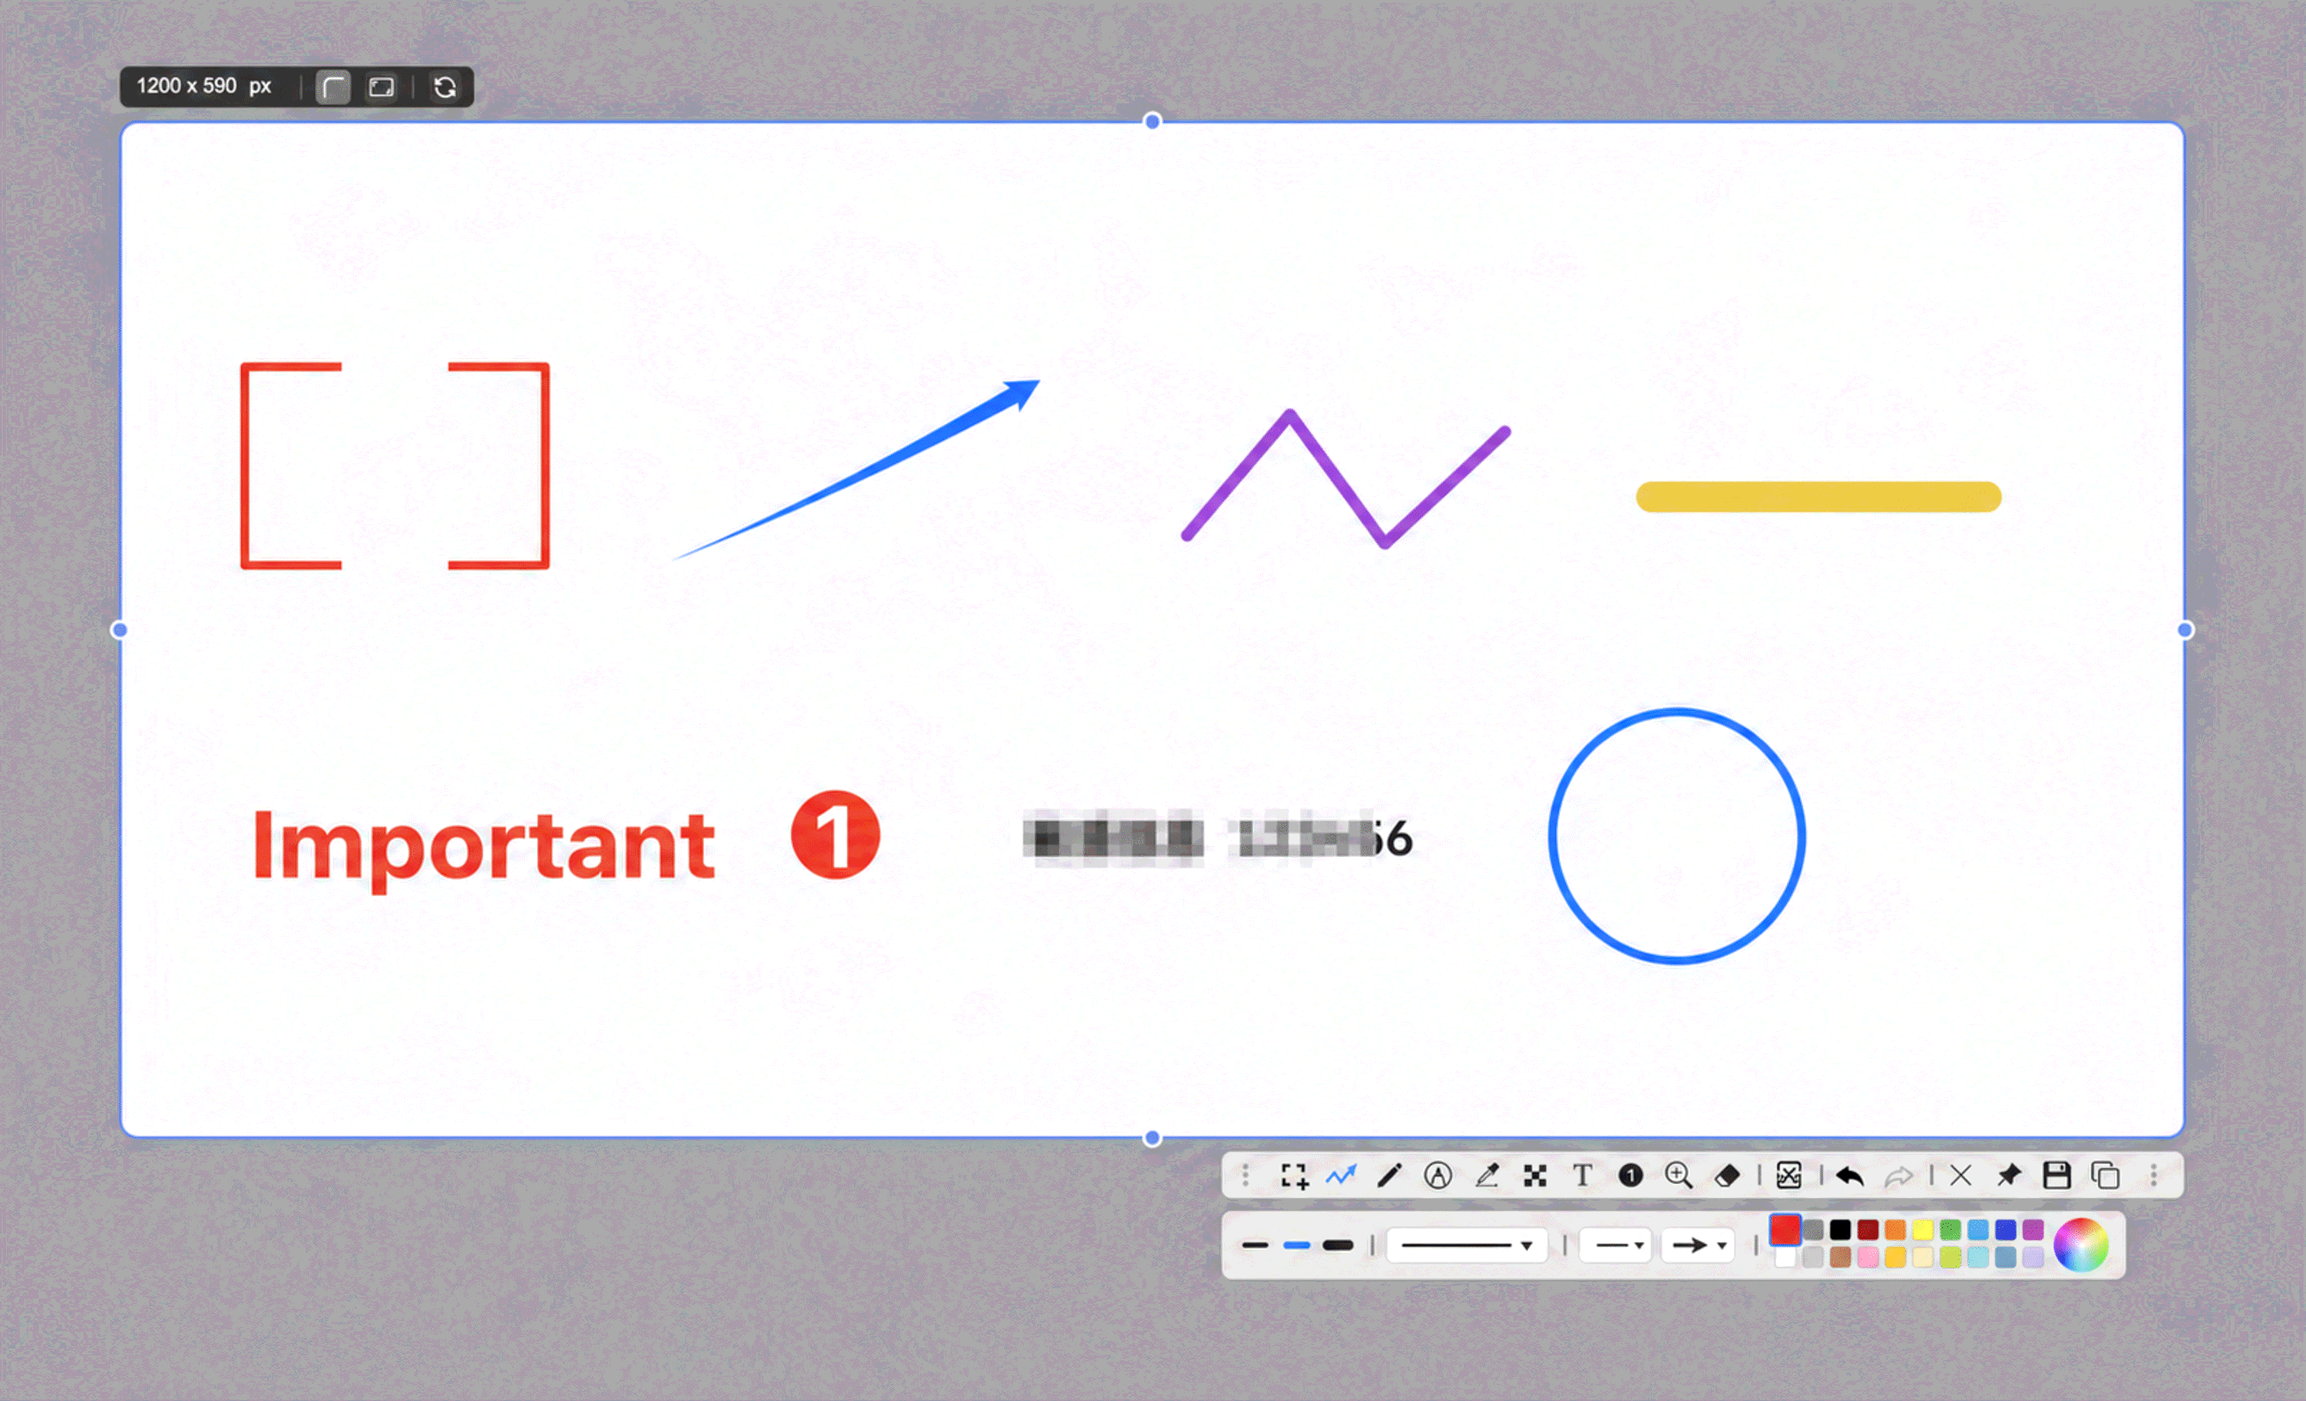
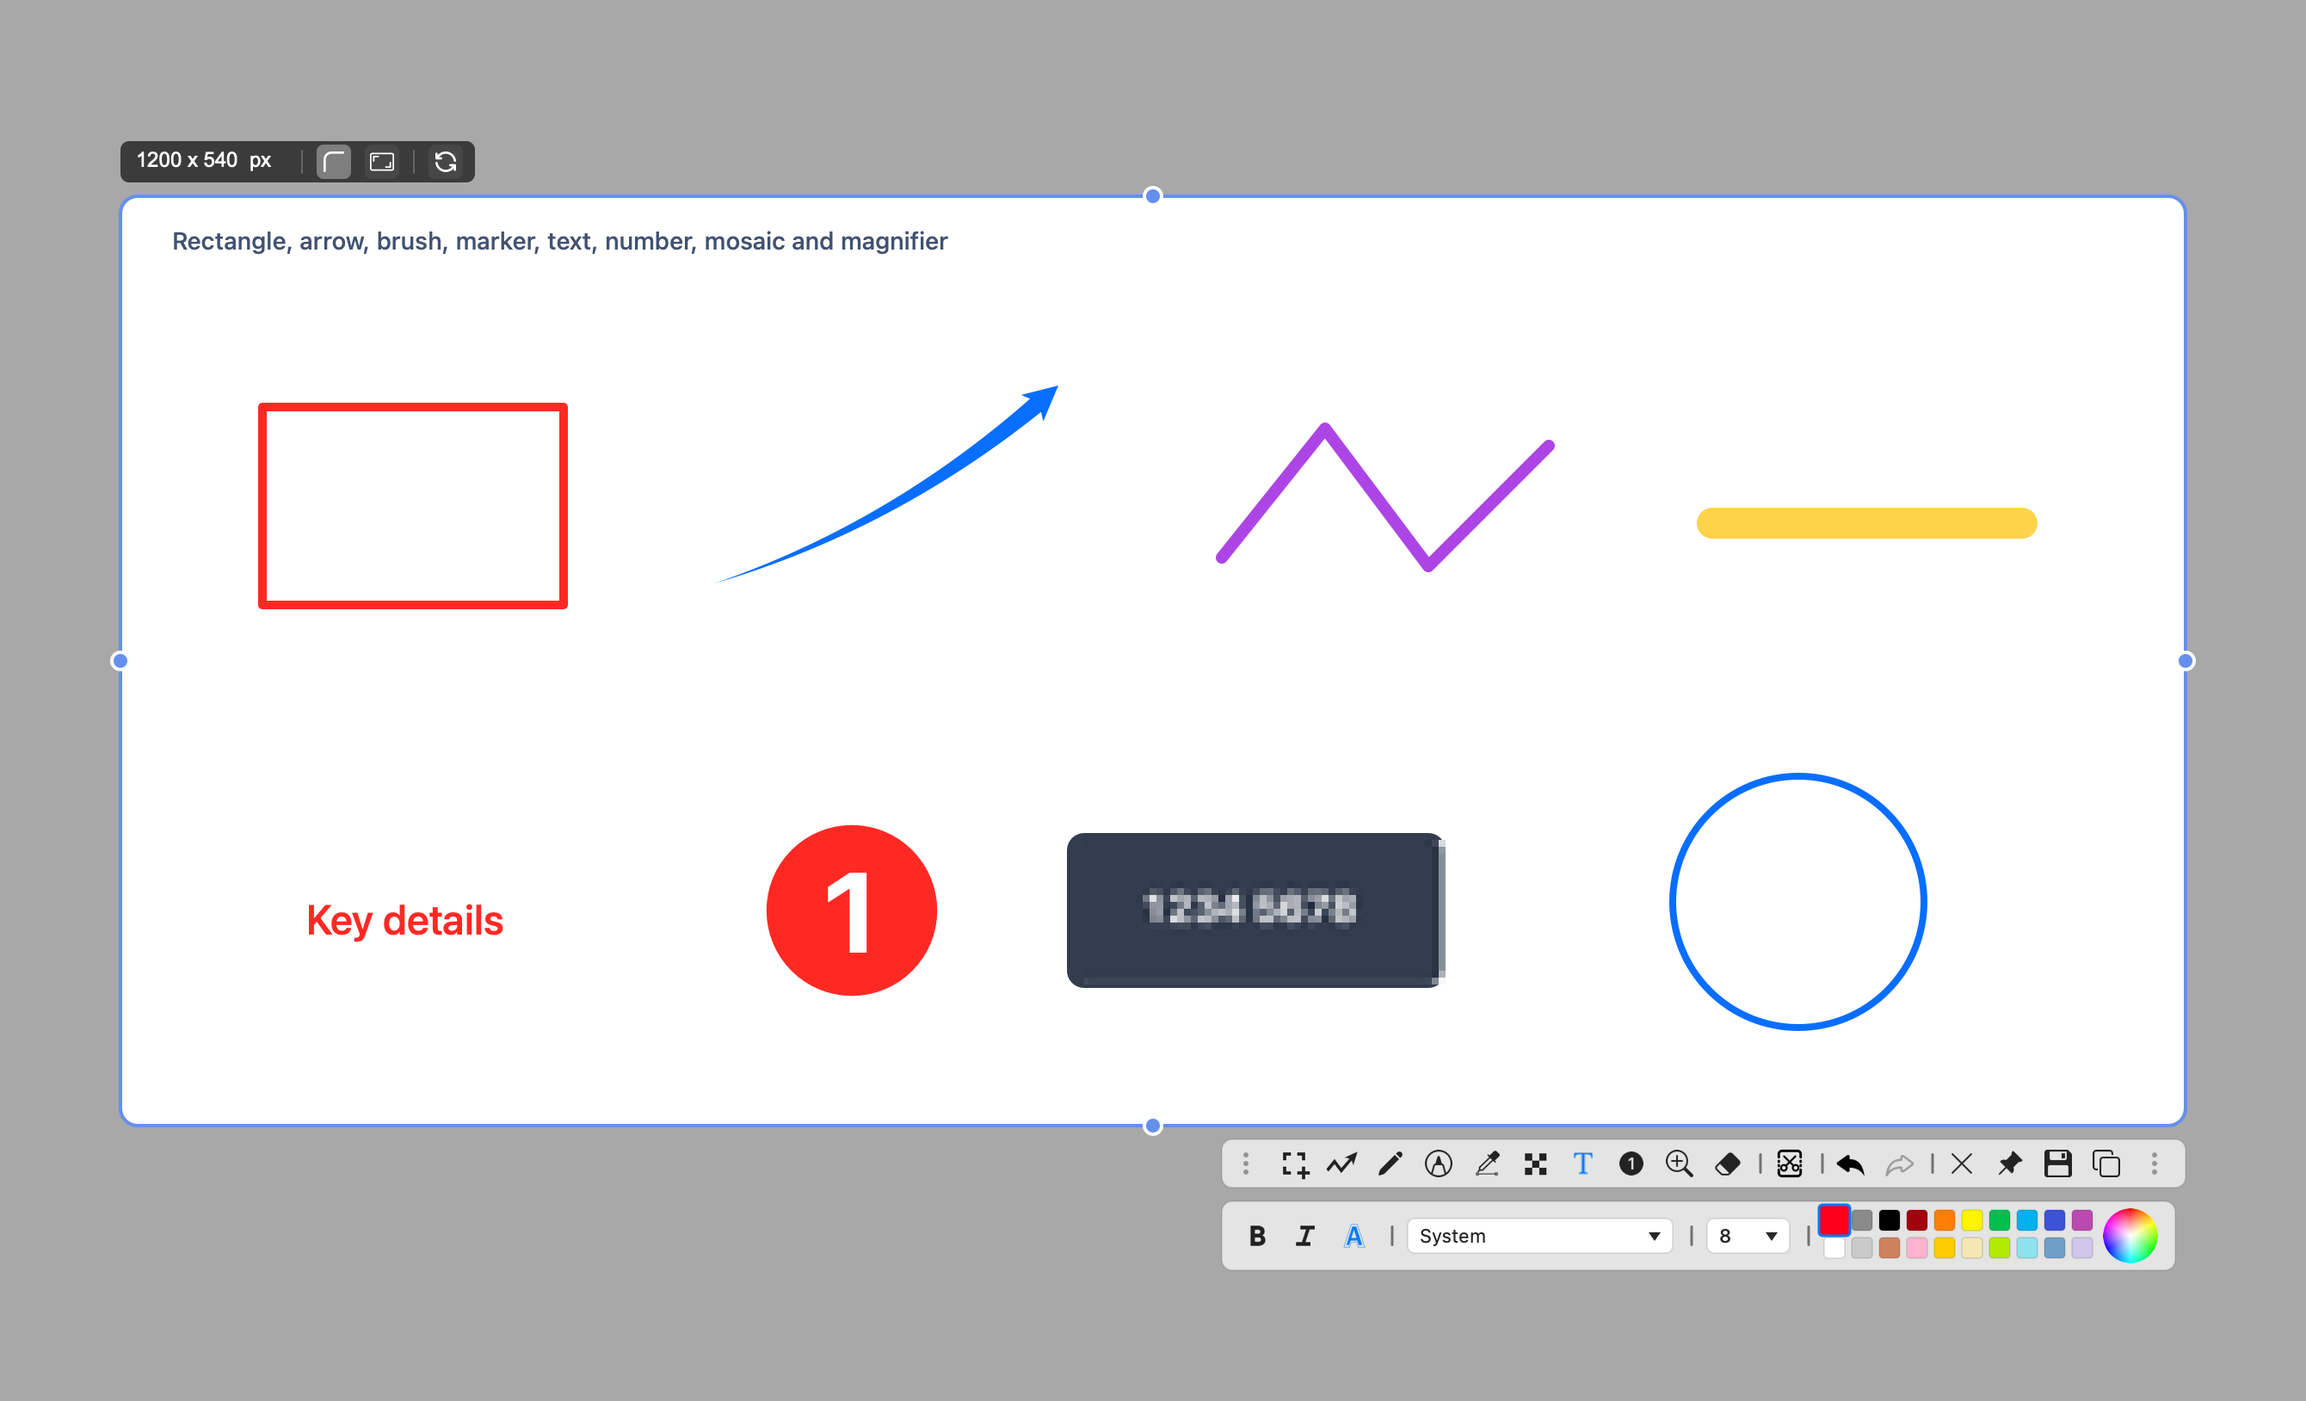
fix(mac): refresh complete help captures
Regenerate bilingual annotation and scrolling-capture images with the production overlay renderer so labels are not clipped and the scroll height remains visible.

diff --git a/platforms/mac/Tests/xxsnapMacTests.swift b/platforms/mac/Tests/xxsnapMacTests.swift
@@ -265,6 +265,91 @@ final class xxsnapMacTests: XCTestCase {
         )
     }
 
+    @MainActor
+    func testRefreshHelpCaptureResourcesWhenRequested() throws {
+        guard let outputRoot = ProcessInfo.processInfo.environment["XXSNAP_HELP_CAPTURE_OUTPUT"] else {
+            throw XCTSkip("Set XXSNAP_HELP_CAPTURE_OUTPUT to refresh the help captures")
+        }
+
+        let canvasSize = NSSize(width: 1_340, height: 814)
+        let languages: [AppLanguage] = [.zhHans, .english]
+
+        for language in languages {
+            var settings = AppSettings.default
+            settings.language = language
+            let directoryName = language == .zhHans ? "zh-Hans" : "en"
+            let outputDirectory = URL(fileURLWithPath: outputRoot)
+                .appendingPathComponent(directoryName, isDirectory: true)
+            try FileManager.default.createDirectory(
+                at: outputDirectory,
+                withIntermediateDirectories: true
+            )
+
+            let annotationBackdrop = try makeHelpCaptureBackdrop(
+                size: canvasSize,
+                language: language,
+                scrollContent: false
+            )
+            var annotationConfiguration = SelectionOverlayConfiguration.default
+            annotationConfiguration.windowFrame = NSRect(origin: .zero, size: canvasSize)
+            annotationConfiguration.usesWindowBoundsForLayout = true
+            let annotationWindow = SelectionOverlayWindow(
+                backgroundImage: annotationBackdrop,
+                settings: settings,
+                configuration: annotationConfiguration
+            ) { _ in }
+            let annotationSelection = NSRect(x: 70, y: 160, width: 1_200, height: 540)
+            annotationWindow.test_setLockedSelectionRect(annotationSelection)
+            annotationWindow.test_setAnnotations(
+                helpCaptureAnnotations(language: language)
+            )
+            annotationWindow.test_activateTextTool()
+            annotationWindow.test_selectTextSize(8)
+
+            let annotationImage = try renderHelpCapture(
+                window: annotationWindow,
+                backdrop: annotationBackdrop
+            )
+            try save(
+                image: annotationImage,
+                to: outputDirectory
+                    .appendingPathComponent("capture-annotation-tools.png")
+                    .path
+            )
+
+            let scrollBackdrop = try makeHelpCaptureBackdrop(
+                size: canvasSize,
+                language: language,
+                scrollContent: true
+            )
+            var scrollConfiguration = SelectionOverlayConfiguration.default
+            scrollConfiguration.windowFrame = NSRect(origin: .zero, size: canvasSize)
+            scrollConfiguration.usesWindowBoundsForLayout = true
+            let scrollWindow = SelectionOverlayWindow(
+                backgroundImage: scrollBackdrop,
+                settings: settings,
+                configuration: scrollConfiguration
+            ) { _ in }
+            scrollWindow.onScrollCaptureRequested = { _ in }
+            scrollWindow.test_setLockedSelectionRect(
+                NSRect(x: 70, y: 150, width: 920, height: 560)
+            )
+            scrollWindow.test_beginScrollCapture()
+            scrollWindow.setScrollCaptureOutputHeight(4_320)
+
+            let scrollImage = try renderHelpCapture(
+                window: scrollWindow,
+                backdrop: scrollBackdrop
+            )
+            try save(
+                image: scrollImage,
+                to: outputDirectory
+                    .appendingPathComponent("capture-scroll-session.png")
+                    .path
+            )
+        }
+    }
+
     func testNumberSequenceRendererDrawsNumberCircle() throws {
         var style = CaptureAnnotationStyle()
         style.strokeColor = NSColor(srgbRed: 1, green: 0, blue: 0, alpha: 1)
@@ -1473,6 +1558,253 @@ final class xxsnapMacTests: XCTestCase {
         context.fill(CGRect(x: 0, y: 0, width: pixelWidth, height: pixelHeight))
         let cgImage = try XCTUnwrap(context.makeImage())
         return NSImage(cgImage: cgImage, size: pointSize)
+    }
+
+    private func helpCaptureAnnotations(language: AppLanguage) -> [CaptureAnnotation] {
+        var rectangleStyle = CaptureAnnotationStyle()
+        rectangleStyle.strokeColor = NSColor(srgbRed: 1, green: 0.16, blue: 0.14, alpha: 1)
+        rectangleStyle.strokeWidth = 5
+
+        var arrowStyle = CaptureAnnotationStyle()
+        arrowStyle.strokeColor = NSColor(srgbRed: 0.03, green: 0.43, blue: 1, alpha: 1)
+        arrowStyle.strokeWidth = 5
+        let arrowLine = CaptureArrowLine(
+            start: NSPoint(x: 345, y: 315),
+            end: NSPoint(x: 545, y: 430),
+            control: NSPoint(x: 455, y: 350),
+            startArrowType: .none,
+            endArrowType: .solidArrow
+        )
+
+        var brushStyle = CaptureAnnotationStyle()
+        brushStyle.strokeColor = NSColor(srgbRed: 0.68, green: 0.27, blue: 0.9, alpha: 1)
+        brushStyle.strokeWidth = 7
+        let brushPath = CaptureBrushPath(points: [
+            NSPoint(x: 640, y: 330),
+            NSPoint(x: 700, y: 405),
+            NSPoint(x: 760, y: 325),
+            NSPoint(x: 830, y: 395),
+        ])
+
+        var markerStyle = CaptureAnnotationStyle()
+        markerStyle.strokeColor = NSColor(srgbRed: 1, green: 0.8, blue: 0.16, alpha: 1)
+        markerStyle.strokeWidth = 18
+        let markerLine = CaptureMarkerLine(
+            start: NSPoint(x: 925, y: 350),
+            end: NSPoint(x: 1_105, y: 350)
+        )
+
+        var textStyle = CaptureAnnotationStyle()
+        textStyle.strokeColor = NSColor(srgbRed: 1, green: 0.16, blue: 0.14, alpha: 1)
+        textStyle.textSize = 8
+        textStyle.textFontFamily = nil
+        let text = language == .zhHans ? "重点内容" : "Key details"
+        let textRect = NSRect(
+            origin: NSPoint(x: 100, y: 105),
+            size: CaptureAnnotationRenderer.textAnnotationSize(
+                text: text,
+                style: textStyle
+            )
+        )
+
+        var numberStyle = CaptureAnnotationStyle()
+        numberStyle.strokeColor = NSColor(srgbRed: 1, green: 0.16, blue: 0.14, alpha: 1)
+        numberStyle.textSize = 30
+        let numberRect = CaptureAnnotationRenderer.numberMarkRect(
+            centeredAt: NSPoint(x: 425, y: 125),
+            fontSize: numberStyle.textSize
+        )
+
+        var mosaicStyle = CaptureAnnotationStyle()
+        mosaicStyle.strokeWidth = 0
+
+        var magnifierStyle = CaptureAnnotationStyle()
+        magnifierStyle.strokeColor = NSColor(srgbRed: 0.03, green: 0.43, blue: 1, alpha: 1)
+        magnifierStyle.strokeWidth = 4
+
+        return [
+            CaptureAnnotation(
+                kind: .rectangle,
+                rect: NSRect(x: 80, y: 300, width: 180, height: 120),
+                style: rectangleStyle
+            ),
+            CaptureAnnotation(
+                kind: .arrowLine,
+                rect: arrowLine.boundingRect,
+                style: arrowStyle,
+                arrowLine: arrowLine
+            ),
+            CaptureAnnotation(
+                kind: .brush,
+                rect: brushPath.boundingRect,
+                style: brushStyle,
+                brushPath: brushPath
+            ),
+            CaptureAnnotation(
+                kind: .marker,
+                rect: markerLine.boundingRect,
+                style: markerStyle,
+                markerLine: markerLine
+            ),
+            CaptureAnnotation(
+                kind: .text,
+                rect: textRect,
+                style: textStyle,
+                text: text
+            ),
+            CaptureAnnotation(
+                kind: .numberSequence,
+                rect: numberRect,
+                style: numberStyle,
+                numberMarkType: .number,
+                numberSequenceIndex: 1
+            ),
+            CaptureAnnotation(
+                kind: .mosaicRectangle,
+                rect: NSRect(x: 560, y: 82, width: 210, height: 84),
+                style: mosaicStyle,
+                mosaicRedaction: CaptureMosaicRedaction(type: .pixelMosaic, value: 8)
+            ),
+            CaptureAnnotation(
+                kind: .magnifier,
+                rect: NSRect(x: 900, y: 55, width: 150, height: 150),
+                style: magnifierStyle,
+                magnifierShape: .circle,
+                magnifierZoom: 2
+            ),
+        ]
+    }
+
+    private func makeHelpCaptureBackdrop(
+        size: NSSize,
+        language: AppLanguage,
+        scrollContent: Bool
+    ) throws -> NSImage {
+        try makeRetinaHelpImage(size: size) {
+            NSColor.white.setFill()
+            NSRect(origin: .zero, size: size).fill()
+
+            let titleAttributes: [NSAttributedString.Key: Any] = [
+                .font: NSFont.systemFont(ofSize: 25, weight: .semibold),
+                .foregroundColor: NSColor(srgbRed: 0.08, green: 0.12, blue: 0.2, alpha: 1),
+            ]
+            let detailAttributes: [NSAttributedString.Key: Any] = [
+                .font: NSFont.systemFont(ofSize: 14, weight: .medium),
+                .foregroundColor: NSColor(srgbRed: 0.25, green: 0.32, blue: 0.44, alpha: 1),
+            ]
+
+            if scrollContent {
+                let labels = language == .zhHans
+                    ? ["滚动截图内容 8", "滚动截图内容 7", "滚动截图内容 6", "滚动截图内容 5"]
+                    : ["Scroll capture 8", "Scroll capture 7", "Scroll capture 6", "Scroll capture 5"]
+                for (index, label) in labels.enumerated() {
+                    let y = size.height - 250 - CGFloat(index) * 165
+                    let card = NSRect(x: 125, y: y, width: 760, height: 112)
+                    let fill = index.isMultiple(of: 2)
+                        ? NSColor(srgbRed: 0.93, green: 0.97, blue: 1, alpha: 1)
+                        : NSColor(srgbRed: 0.95, green: 0.99, blue: 0.96, alpha: 1)
+                    fill.setFill()
+                    NSBezierPath(roundedRect: card, xRadius: 14, yRadius: 14).fill()
+                    NSString(string: label).draw(
+                        at: NSPoint(x: card.minX + 34, y: card.midY - 13),
+                        withAttributes: titleAttributes
+                    )
+                }
+
+                let preview = NSRect(x: 1_035, y: 90, width: 245, height: 630)
+                NSColor(srgbRed: 0.96, green: 0.97, blue: 0.99, alpha: 1).setFill()
+                NSBezierPath(roundedRect: preview, xRadius: 12, yRadius: 12).fill()
+                NSString(string: language == .zhHans ? "长截图预览" : "Long capture preview").draw(
+                    at: NSPoint(x: preview.minX + 34, y: preview.maxY - 55),
+                    withAttributes: detailAttributes
+                )
+                for index in 0..<5 {
+                    let miniCard = NSRect(
+                        x: preview.minX + 28,
+                        y: preview.maxY - 145 - CGFloat(index) * 98,
+                        width: preview.width - 56,
+                        height: 68
+                    )
+                    (
+                        index.isMultiple(of: 2)
+                            ? NSColor(srgbRed: 0.9, green: 0.95, blue: 1, alpha: 1)
+                            : NSColor(srgbRed: 0.92, green: 0.98, blue: 0.94, alpha: 1)
+                    ).setFill()
+                    NSBezierPath(roundedRect: miniCard, xRadius: 8, yRadius: 8).fill()
+                }
+            } else {
+                NSString(
+                    string: language == .zhHans
+                        ? "矩形、箭头、画笔、荧光笔、文字、序号、马赛克和放大镜"
+                        : "Rectangle, arrow, brush, marker, text, number, mosaic and magnifier"
+                ).draw(
+                    at: NSPoint(x: 100, y: size.height - 148),
+                    withAttributes: detailAttributes
+                )
+
+                let mosaicSource = NSRect(x: 620, y: 240, width: 220, height: 90)
+                NSColor(srgbRed: 0.2, green: 0.24, blue: 0.31, alpha: 1).setFill()
+                NSBezierPath(roundedRect: mosaicSource, xRadius: 10, yRadius: 10).fill()
+                NSString(string: "1234 5678").draw(
+                    at: NSPoint(x: mosaicSource.minX + 42, y: mosaicSource.midY - 12),
+                    withAttributes: [
+                        .font: NSFont.monospacedDigitSystemFont(ofSize: 24, weight: .semibold),
+                        .foregroundColor: NSColor.white,
+                    ]
+                )
+            }
+        }
+    }
+
+    private func renderHelpCapture(
+        window: SelectionOverlayWindow,
+        backdrop: NSImage
+    ) throws -> NSImage {
+        let overlayView = try XCTUnwrap(window.contentView)
+        overlayView.layoutSubtreeIfNeeded()
+        let overlayImage = try renderRetinaHelpView(overlayView)
+        return try makeRetinaHelpImage(size: overlayView.bounds.size) {
+            backdrop.draw(in: overlayView.bounds)
+            overlayImage.draw(in: overlayView.bounds)
+        }
+    }
+
+    private func renderRetinaHelpView(_ view: NSView) throws -> NSImage {
+        try makeRetinaHelpImage(size: view.bounds.size) {
+            view.draw(view.bounds)
+        }
+    }
+
+    private func makeRetinaHelpImage(
+        size: NSSize,
+        draw: () -> Void
+    ) throws -> NSImage {
+        let bitmap = try XCTUnwrap(
+            NSBitmapImageRep(
+                bitmapDataPlanes: nil,
+                pixelsWide: Int(size.width * 2),
+                pixelsHigh: Int(size.height * 2),
+                bitsPerSample: 8,
+                samplesPerPixel: 4,
+                hasAlpha: true,
+                isPlanar: false,
+                colorSpaceName: .deviceRGB,
+                bytesPerRow: 0,
+                bitsPerPixel: 0
+            )
+        )
+        bitmap.size = size
+        let context = try XCTUnwrap(NSGraphicsContext(bitmapImageRep: bitmap))
+
+        NSGraphicsContext.saveGraphicsState()
+        NSGraphicsContext.current = context
+        draw()
+        context.flushGraphics()
+        NSGraphicsContext.restoreGraphicsState()
+
+        let image = NSImage(size: size)
+        image.addRepresentation(bitmap)
+        return image
     }
 
     private func makeBitmapImageWithBlackTextStripe() throws -> NSImage {
